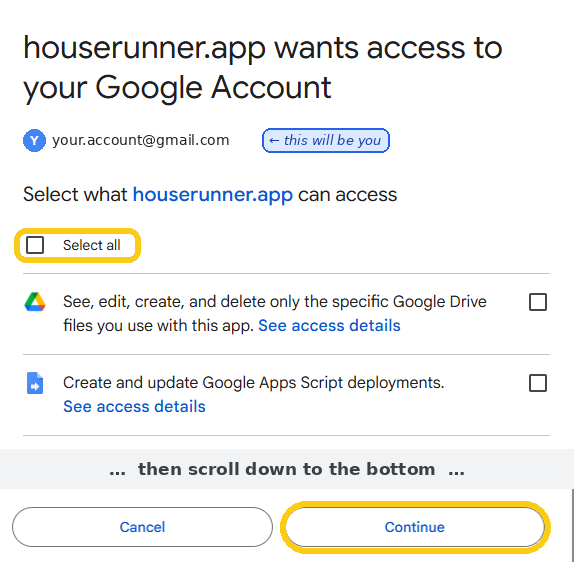
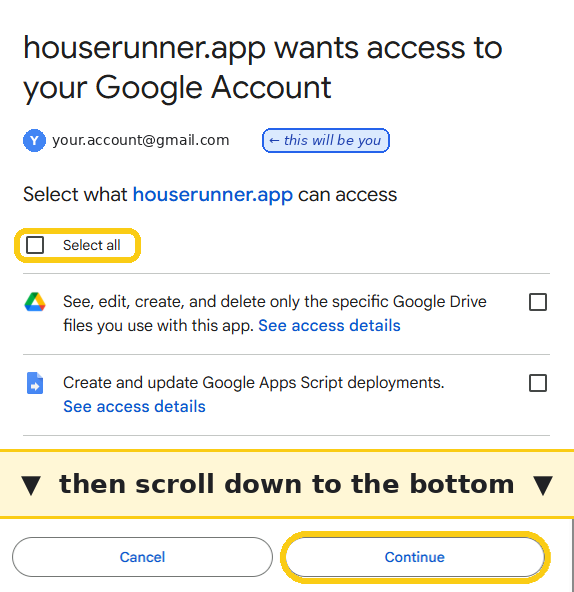
2026.11.354: bigger scroll-down note
Claude-Session: https://claude.ai/code/session_01R2kV4GW3UVFR51NzUKtdLQ

diff --git a/setup/guide/auto.js b/setup/guide/auto.js
@@ -92,7 +92,7 @@
         else if (k === 0) body = '<div class="card big"><h3>Sign in with the Google account for your family dashboard</h3><p>Google asks you to let the <b>HouseRunner Installer</b> make <b>one new Sheet</b> in your Drive and <b>make and publish its script</b>. It can’t see your other files.' +
             (S.email ? ' <span class="mute">Last time you used ' + esc(S.email) + ' – use the same account to carry on with the same Sheet.</span>' : '') + '</p>' +
             '<ol class="mute"><li>A Google window opens, <b>“Choose an account”</b>: click your account. <span class="small">(Not signed in to Google on this computer yet? It asks for your Google email and password first. Account not listed? Click <b>Use another account</b>.)</span></li><li>Google says <b>“Google hasn’t verified this app”</b> – that’s expected, HouseRunner is new. Click <b>Continue</b> (the blue word on the left – not “Back to safety”). <span class="small">(If it shows <b>Advanced</b> instead, click that, then <b>Go to HouseRunner Installer (unsafe)</b>.)</span></li><li>Google says <b>“Sign in to houserunner.app”</b> with your email: click <b>Continue</b>.</li><li>Tick <b>Select all</b>, scroll down and click <b>Continue</b>.</li></ol>' +
-            '<div class="hri-pics"><figure><img src="../../shared/brand/steps/h-choose.png?v=353" alt=""><figcaption>Choose an account: click yours</figcaption></figure><figure><img src="../../shared/brand/steps/h-testing.png?v=353" alt=""><figcaption>Not verified yet: Continue, on the left</figcaption></figure><figure><img src="../../shared/brand/steps/h-signinto.png?v=353" alt=""><figcaption>Sign in to houserunner.app: Continue</figcaption></figure><figure><img src="../../shared/brand/steps/h-consent-inst2.png?v=353" alt=""><figcaption>Tick Select all, scroll down, click Continue</figcaption></figure></div>' + '<p>' + '<button class="btn ghost sm" data-showme type="button">🎬 Show me</button> <span class="mute small">– a small window with a short clip of each click</span>' + '</p>' +
+            '<div class="hri-pics"><figure><img src="../../shared/brand/steps/h-choose.png?v=353" alt=""><figcaption>Choose an account: click yours</figcaption></figure><figure><img src="../../shared/brand/steps/h-testing.png?v=353" alt=""><figcaption>Not verified yet: Continue, on the left</figcaption></figure><figure><img src="../../shared/brand/steps/h-signinto.png?v=353" alt=""><figcaption>Sign in to houserunner.app: Continue</figcaption></figure><figure><img src="../../shared/brand/steps/h-consent-inst2.png?v=354" alt=""><figcaption>Tick Select all, scroll down, click Continue</figcaption></figure></div>' + '<p>' + '<button class="btn ghost sm" data-showme type="button">🎬 Show me</button> <span class="mute small">– a small window with a short clip of each click</span>' + '</p>' +
             '<div class="row"><button class="btn" id="go">' + (S.sheetId ? 'Sign in and carry on' : 'Sign in with Google') + '</button></div></div>';
         else if (k === 4) body = '<div class="card big"><h3>One Google approval for HouseRunner App</h3><p>Your Sheet is made and published. Now approve what <b>HouseRunner App</b> does in your account – your calendar, sending your setup emails and so on (why each is needed is below). This tab goes to Google, then comes back here.</p>' +
             '<ol class="mute"><li>Google says <b>HouseRunner App (Unverified) needs your permission</b>: click <b>REVIEW PERMISSIONS</b>.</li><li>A Google window opens: choose <b>your</b> account.</li><li>Google warns it hasn’t been verified – expected: it’s your own private copy. If it shows <b>“Google hasn’t verified this app”</b>, click <b>Continue</b> on the left. <span class="small">(Or: <b>Advanced</b>, then <b>Go to HouseRunner App (unsafe)</b>.)</span></li><li>Tick <b>Select all</b>, scroll down, click <b>Continue</b>.</li><li>“Waiting for authorization…” for a few seconds – <b>stuck?</b> Press <b>F5</b>.</li><li>Google shows <b>✅ Approved</b>: click <b>▶ Back to HouseRunner setup</b>.</li></ol>' +

diff --git a/index.html b/index.html
@@ -24,11 +24,11 @@
         window.FD_DESK = true; window.FD_PHONE = !!phone;
     })();
     </script>
-    <link rel="stylesheet" href="shared/base.css?v=202611353">
-    <link rel="stylesheet" href="admin/admin.css?v=202611353">
-    <link rel="stylesheet" href="setup/desk.css?v=202611353">
-    <link rel="stylesheet" href="setup/editor.css?v=202611353">
-    <link rel="stylesheet" href="admin/phone.css?v=202611353">
+    <link rel="stylesheet" href="shared/base.css?v=202611354">
+    <link rel="stylesheet" href="admin/admin.css?v=202611354">
+    <link rel="stylesheet" href="setup/desk.css?v=202611354">
+    <link rel="stylesheet" href="setup/editor.css?v=202611354">
+    <link rel="stylesheet" href="admin/phone.css?v=202611354">
     <style>
 #landing { min-height: 100vh; }
 #landing .ld-wrap { max-width: 1100px; margin: 0 auto; padding: 30px 18px 50px; }
@@ -206,20 +206,20 @@
     </div></div>
     <!-- Connected: houserunner.app (computer) or Family Admin (phone) – the same app. -->
     <div id="app"></div>
-    <script src="shared/storecheck.js?v=202611353"></script>
-    <script src="shared/fd.js?v=202611353"></script>
-    <script src="dashboard/scripts/platform.js?v=202611353"></script>
-    <script src="shared/pair.js?v=202611353"></script>
-    <script src="shared/qrcode.js?v=202611353"></script>
-    <script src="shared/privacy.js?v=202611353"></script>
-    <script src="shared/countries.js?v=202611353"></script>
-    <script src="setup/config.js?v=202611353"></script>
-    <script src="help/topics.js?v=202611353"></script>
-    <script src="setup/editor.js?v=202611353"></script>
-    <script src="setup/calsetup.js?v=202611353"></script>
-    <script src="shared/icons.js?v=202611353"></script>
+    <script src="shared/storecheck.js?v=202611354"></script>
+    <script src="shared/fd.js?v=202611354"></script>
+    <script src="dashboard/scripts/platform.js?v=202611354"></script>
+    <script src="shared/pair.js?v=202611354"></script>
+    <script src="shared/qrcode.js?v=202611354"></script>
+    <script src="shared/privacy.js?v=202611354"></script>
+    <script src="shared/countries.js?v=202611354"></script>
+    <script src="setup/config.js?v=202611354"></script>
+    <script src="help/topics.js?v=202611354"></script>
+    <script src="setup/editor.js?v=202611354"></script>
+    <script src="setup/calsetup.js?v=202611354"></script>
+    <script src="shared/icons.js?v=202611354"></script>
     <!-- A phone gets Family Admin, written for the phone; a computer houserunner.app. -->
-    <script>document.write('<script src="admin/' + (window.FD_PHONE ? 'phone' : 'app') + '.js?v=202611353"><\/script>');</script>
+    <script>document.write('<script src="admin/' + (window.FD_PHONE ? 'phone' : 'app') + '.js?v=202611354"><\/script>');</script>
 <script>
  (function () {
    'use strict';

diff --git a/setup/guide/index.html b/setup/guide/index.html
@@ -6,8 +6,8 @@
     <title>HouseRunner setup</title>
     <meta name="theme-color" content="#0c0e12">
     <link rel="icon" href="../../shared/brand/icon-192.png"><link rel="apple-touch-icon" href="../../shared/brand/apple-touch-icon.png">
-    <link rel="stylesheet" href="../editor.css?v=202611353">
-    <link rel="stylesheet" href="setup.css?v=202611353">
+    <link rel="stylesheet" href="../editor.css?v=202611354">
+    <link rel="stylesheet" href="setup.css?v=202611354">
 </head>
 <body>
     <header class="cfg-top"><a class="cfg-title hr-title" href="../../"><img src="../../shared/brand/mark.svg" alt="" class="hr-mini"><span>House<span class="hr-acc">Runner</span></span></a><a class="cfg-dash" href="../../dashboard/" target="_blank" rel="noopener">▶ Dashboard</a><a class="cfg-help" href="../../help/" target="_blank" rel="noopener">❓ Help</a></header>
@@ -29,11 +29,11 @@
     <script src="../../shared/countries.js"></script>
     <script src="../../shared/pair.js"></script>
     <script src="../../shared/qrcode.js"></script>
-    <script src="../calsetup.js?v=202611353"></script>
-    <script src="../../shared/storecheck.js?v=202611353"></script>
+    <script src="../calsetup.js?v=202611354"></script>
+    <script src="../../shared/storecheck.js?v=202611354"></script>
     <script src="https://accounts.google.com/gsi/client" async defer></script>
-    <script src="auto.js?v=202611353"></script>
-    <script src="float.js?v=202611353"></script>
-    <script src="setup.js?v=202611353"></script>
+    <script src="auto.js?v=202611354"></script>
+    <script src="float.js?v=202611354"></script>
+    <script src="setup.js?v=202611354"></script>
 </body>
 </html>

diff --git a/sw.js b/sw.js
@@ -1,6 +1,6 @@
 /* Keeps houserunner.app (the Configurator / Family Admin) available offline. Family data always comes live from Google.
  * The screen, the Family Calendar app and the licence pages look after themselves, so they're left alone here. */
-const CACHE = 'root-v208';
+const CACHE = 'root-v209';
 const FILES = ["./", "index.html", "manifest.webmanifest", "admin/app.js", "admin/phone.js", "admin/phone.css", "admin/admin.css", "admin/icons/icon-192.png", "setup/desk.css", "setup/editor.css", "setup/editor.js", "setup/calsetup.js", "setup/config.js",
   "help/topics.js", "shared/fd.js", "shared/head.js", "shared/storecheck.js", "shared/move.js", "shared/busy.js", "shared/base.css", "shared/brand/mark.svg", "shared/privacy.js", "shared/countries.js", "shared/icons.js", "shared/pair.js", "shared/qrcode.js"];
 const OWN = /^\/(screen|dashboard|calendar|licencing|windows|downloads|Scripts)\//;

diff --git a/admin/sw.js b/admin/sw.js
@@ -1,5 +1,5 @@
 /* Keeps the app itself available offline. Calendar and points data always come live from Google. */
-const CACHE = 'admin-v357';
+const CACHE = 'admin-v358';
 const FILES = ["./", "index.html", "app.js", "admin.css", "manifest.webmanifest", "icons/icon-192.png", "../shared/fd.js", "../shared/storecheck.js", "../shared/move.js", "../shared/base.css", "../shared/brand/symbol.svg", "../shared/privacy.js", "../shared/countries.js", "../shared/pair.js", "../shared/qrcode.js"];
 self.addEventListener('install', e => { e.waitUntil(caches.open(CACHE).then(c => c.addAll(FILES)).then(() => self.skipWaiting())); });
 self.addEventListener('activate', e => { e.waitUntil(caches.keys().then(ks => Promise.all(ks.filter(k => k.startsWith('admin-') && k !== CACHE).map(k => caches.delete(k)))).then(() => self.clients.claim())); });

diff --git a/calendar/sw.js b/calendar/sw.js
@@ -1,5 +1,5 @@
 /* Keeps the app itself available offline. Calendar and points data always come live from Google. */
-const CACHE = 'calendar-v345';
+const CACHE = 'calendar-v346';
 const FILES = ["./", "index.html", "app.js", "calendar.css", "manifest.webmanifest", "icons/icon-192.png", "../shared/fd.js", "../shared/storecheck.js", "../shared/move.js", "../shared/base.css", "../shared/brand/symbol.svg", "../shared/pair.js", "../shared/qrcode.js"];
 self.addEventListener('install', e => { e.waitUntil(caches.open(CACHE).then(c => c.addAll(FILES)).then(() => self.skipWaiting())); });
 self.addEventListener('activate', e => { e.waitUntil(caches.keys().then(ks => Promise.all(ks.filter(k => k.startsWith('calendar-') && k !== CACHE).map(k => caches.delete(k)))).then(() => self.clients.claim())); });

diff --git a/setup/guide/helper.html b/setup/guide/helper.html
@@ -32,7 +32,7 @@ button:disabled{opacity:.4;cursor:default}
  * and "Done – next" moves it on where it can't tell (the clicks in Google's own windows).
  * Where a picture shows Google's screens, the account shown is marked "your own Google email": the person sees theirs. */
 (function () {
-    var V = '../../shared/brand/steps/', REV = '353';
+    var V = '../../shared/brand/steps/', REV = '354';
     var SETUP = '🏠 In the <b>HouseRunner setup</b> tab', GWIN = '🔐 In <b>Google’s window</b>', GTAB = '🔐 <b>Google</b>, in the HouseRunner setup tab';
     // [stage, where, what to click, help, media (one, or several shown in turn)]
     var STEPS = [

diff --git a/shared/fd.js b/shared/fd.js
@@ -191,7 +191,7 @@
         clearConfig: function () { cfg = {}; try { localStorage.removeItem(KEY); } catch (e) { /* ignore */ } },
         parseSetup: parseSetup,
 
-        VERSION: '2026.11.353',     // the phone apps' version (same number as the screen's)
+        VERSION: '2026.11.354',     // the phone apps' version (same number as the screen's)
         get: function (action, params, timeout) {
             var q = 'action=' + encodeURIComponent(action) + '&code=' + encodeURIComponent(cfg.code) + '&t=' + Date.now();
             Object.keys(params || {}).forEach(function (k) { q += '&' + k + '=' + encodeURIComponent(params[k]); });

diff --git a/dashboard/scripts/notices.js b/dashboard/scripts/notices.js
@@ -6,7 +6,7 @@
  */
 (function () {
     'use strict';
-    var APP_VERSION = '2026.11.353';
+    var APP_VERSION = '2026.11.354';
     var SNOOZE_KEY = 'familyDashboard.updateSnooze', SCRIPT_KEY = 'familyDashboard.scriptNag';
     var latest = null, lastLayout = null, privacyOpen = false, lastTouch = Date.now(), updating = false;
     var IDLE_MS = 3 * 60000;
